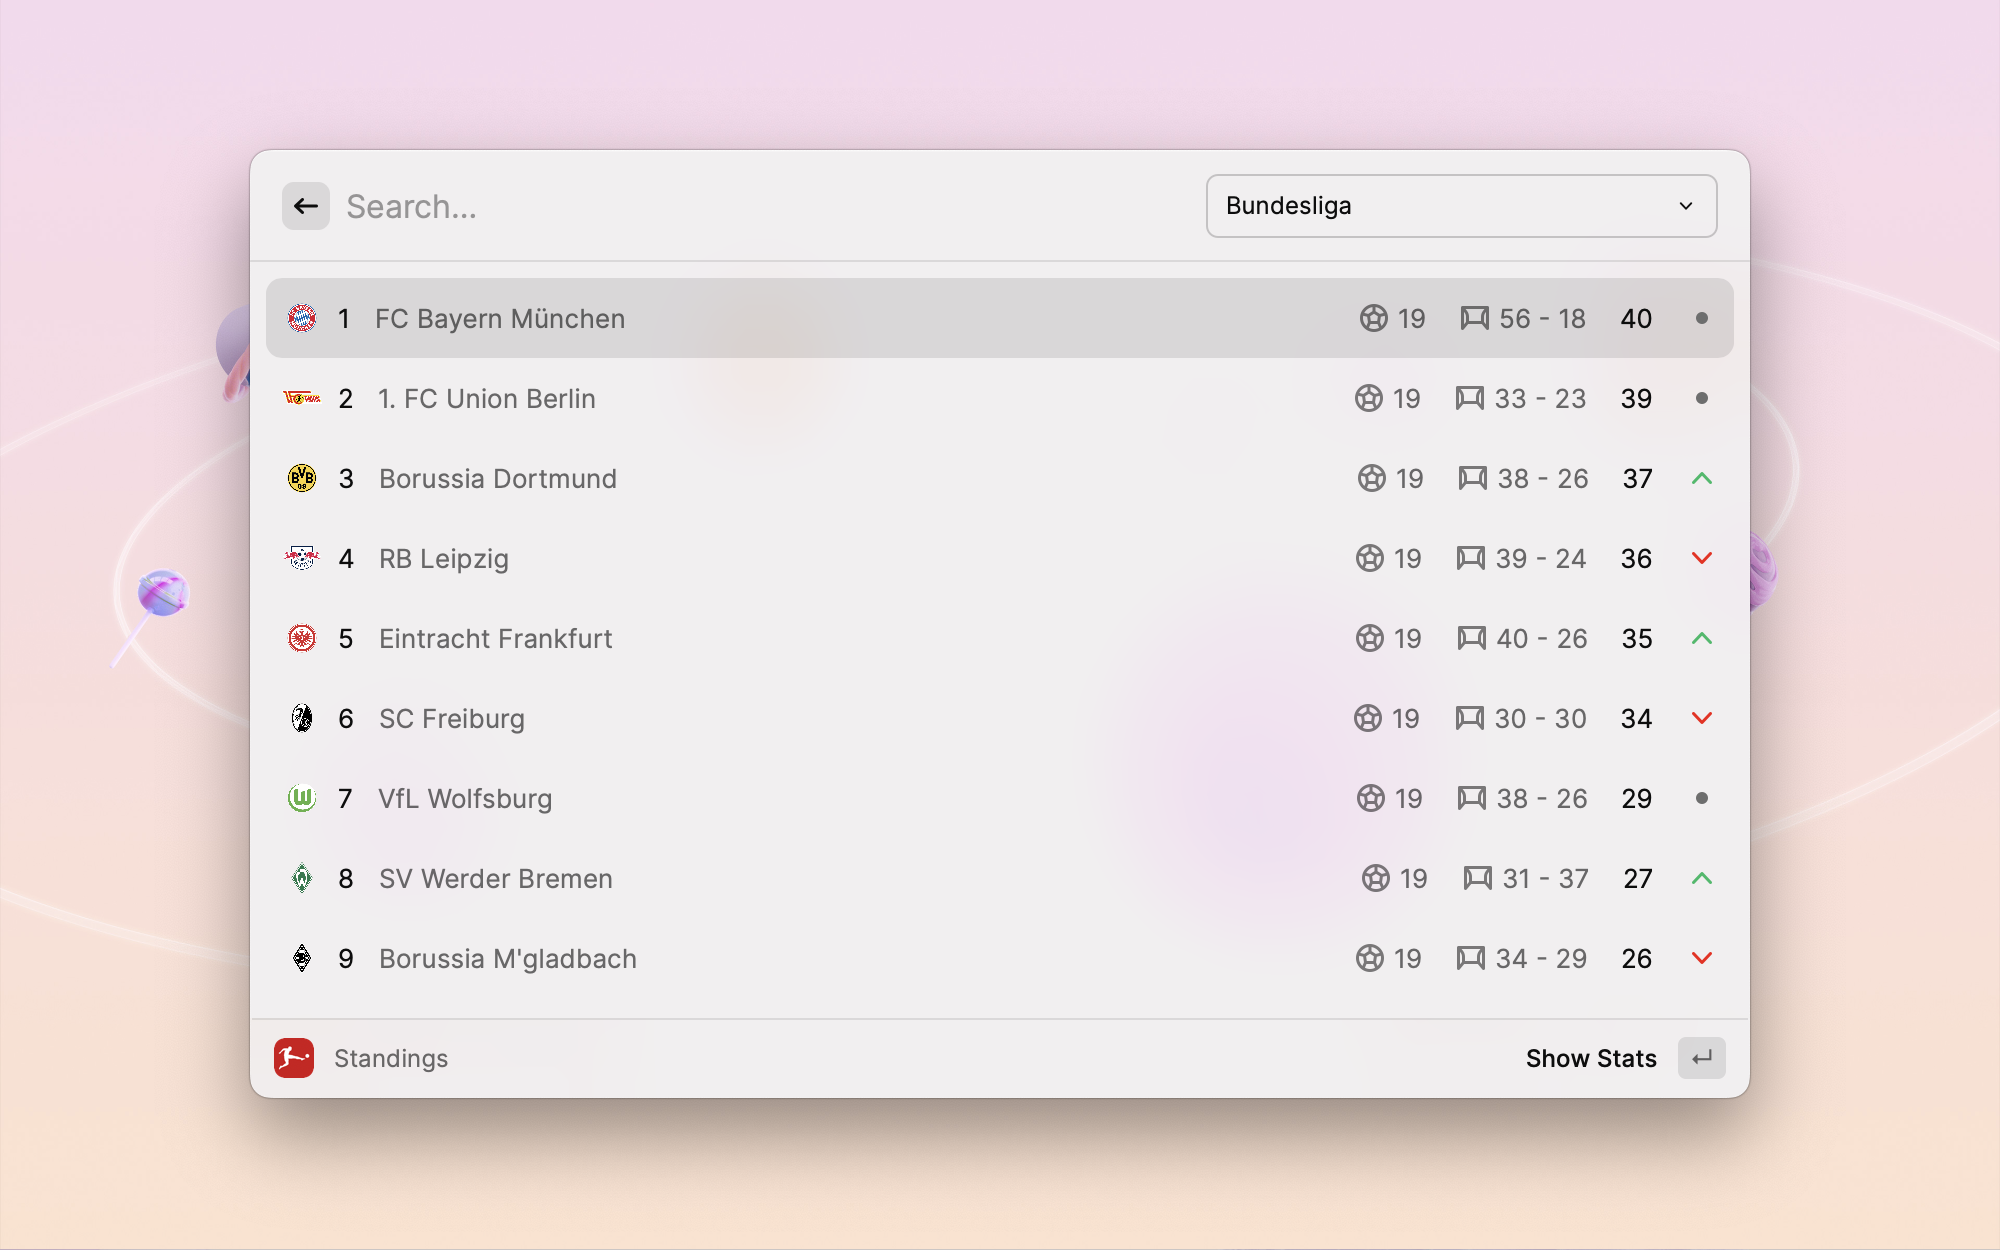
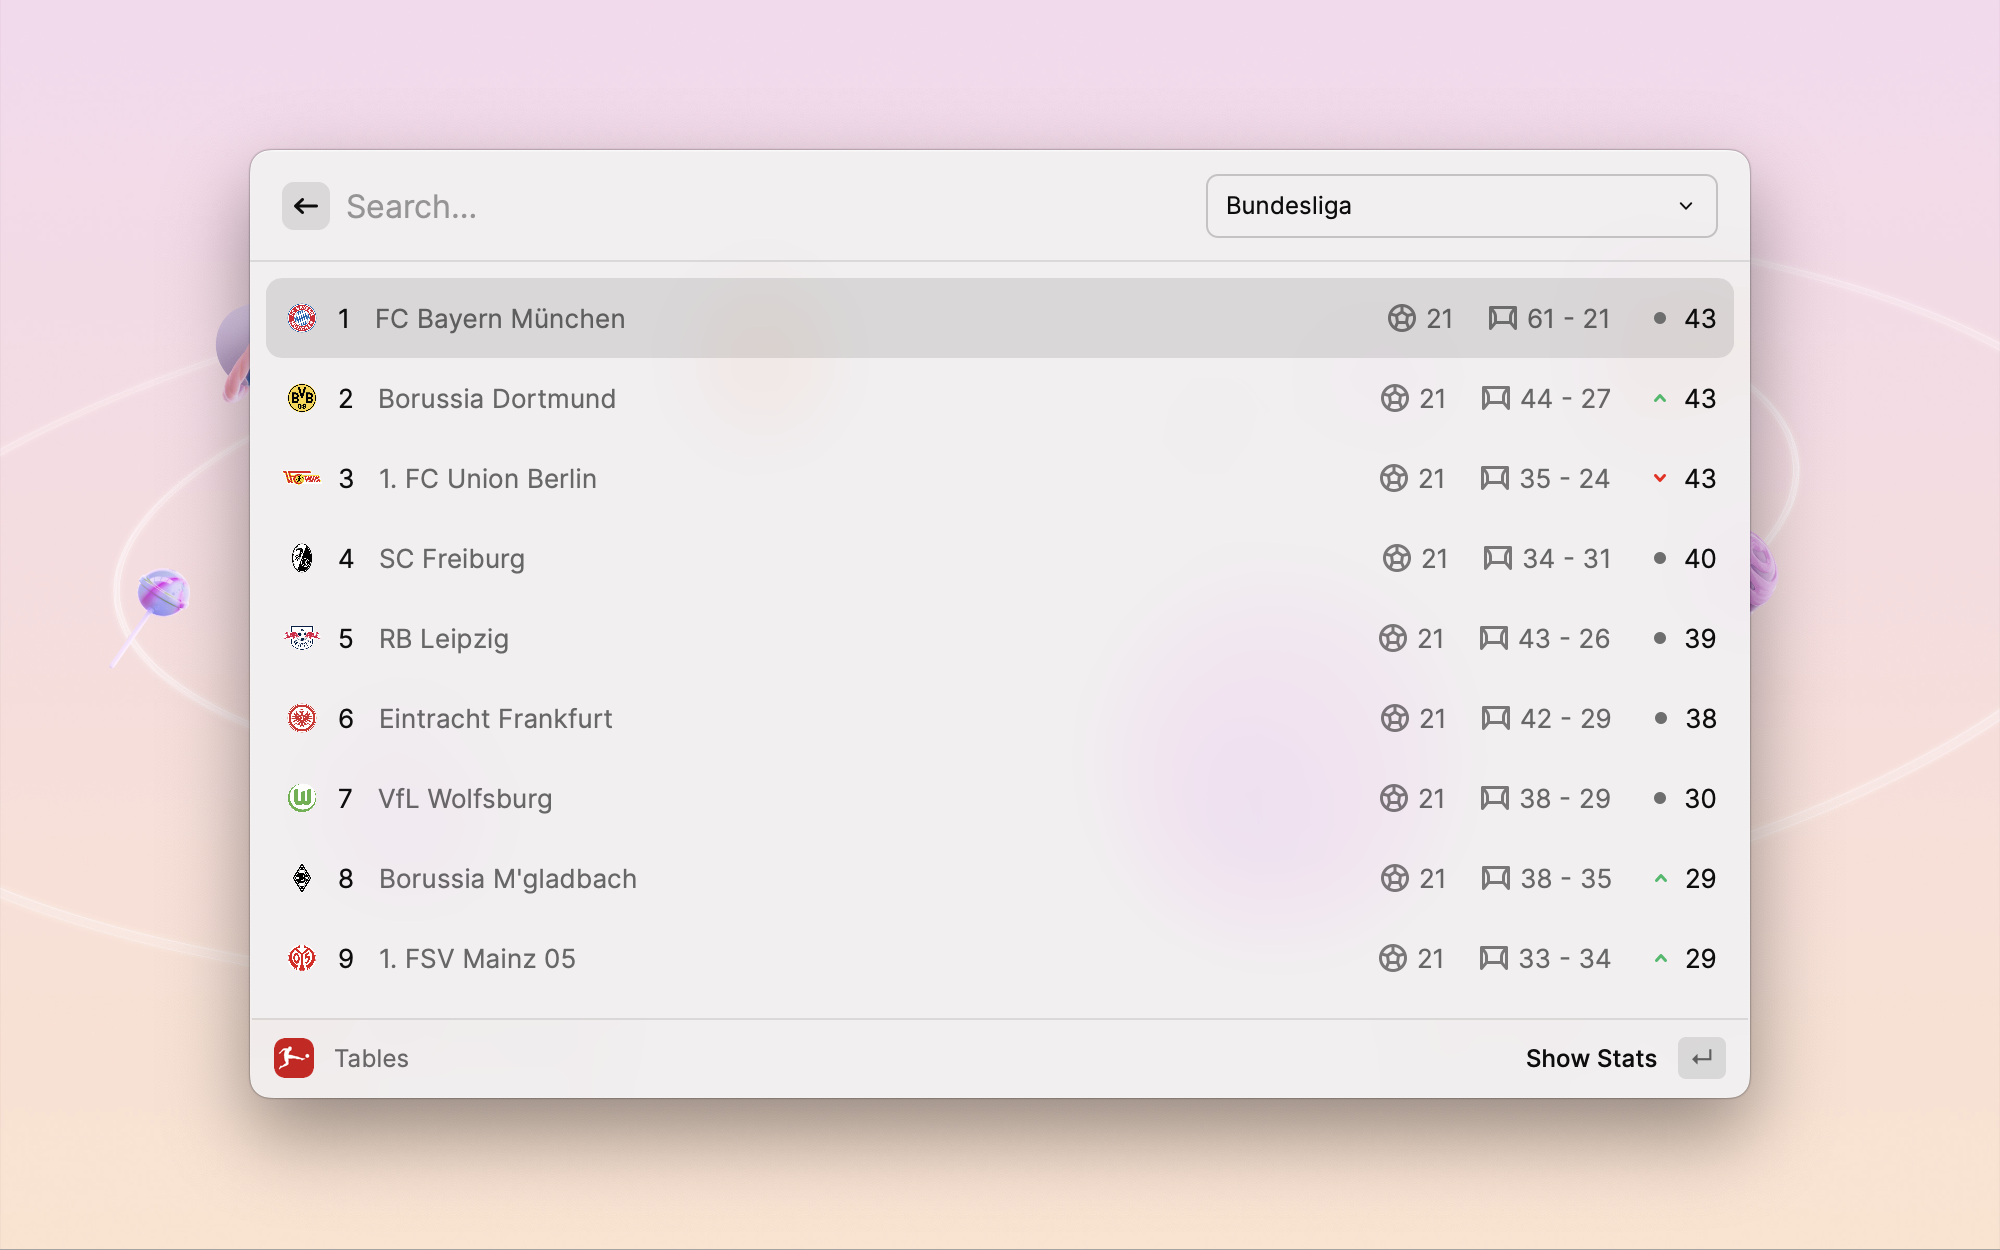
fix: config cache

diff --git a/src/table.tsx b/src/table.tsx
@@ -31,12 +31,12 @@ export default function Table() {
 
         if (entry.tendency === "UP") {
           icon = {
-            source: Icon.ChevronUp,
+            source: Icon.ChevronUpSmall,
             tintColor: Color.Green,
           };
         } else if (entry.tendency === "DOWN") {
           icon = {
-            source: Icon.ChevronDown,
+            source: Icon.ChevronDownSmall,
             tintColor: Color.Red,
           };
         }
@@ -47,9 +47,9 @@ export default function Table() {
               color: Color.PrimaryText,
               value: entry.points.toString(),
             },
+            icon,
             tooltip: "Points",
           },
-          { icon },
         ];
 
         if (!showStats) {

diff --git a/src/api/index.ts b/src/api/index.ts
@@ -65,15 +65,20 @@ const getSeason = async (): Promise<SeasonConfig | undefined> => {
         url: "https://wapp.bapi.bundesliga.com/config/configNode.json",
       });
 
-      cache.set("bundesliga_config", resp.data);
-
       data = resp.data;
+      cache.set(
+        "bundesliga_config",
+        typeof data === "string" ? data : JSON.stringify(resp.data)
+      );
     }
 
-    const cfg: { [com: string]: SeasonConfig } = JSON.parse(data);
+    const cfg: { [com: string]: SeasonConfig } =
+      typeof data === "string" ? JSON.parse(data) : data;
 
     return Object.values(cfg)[0];
   } catch (e) {
+    showFailureToast();
+
     return undefined;
   }
 };

diff --git a/CHANGELOG.md b/CHANGELOG.md
@@ -1,6 +1,6 @@
 # Bundesliga Changelog
 
-## [Improvements] - 2023
+## [Improvements] - 2023-02-20
 - Refine Fixtures & Results
 - Move x-api-key to preference
 
